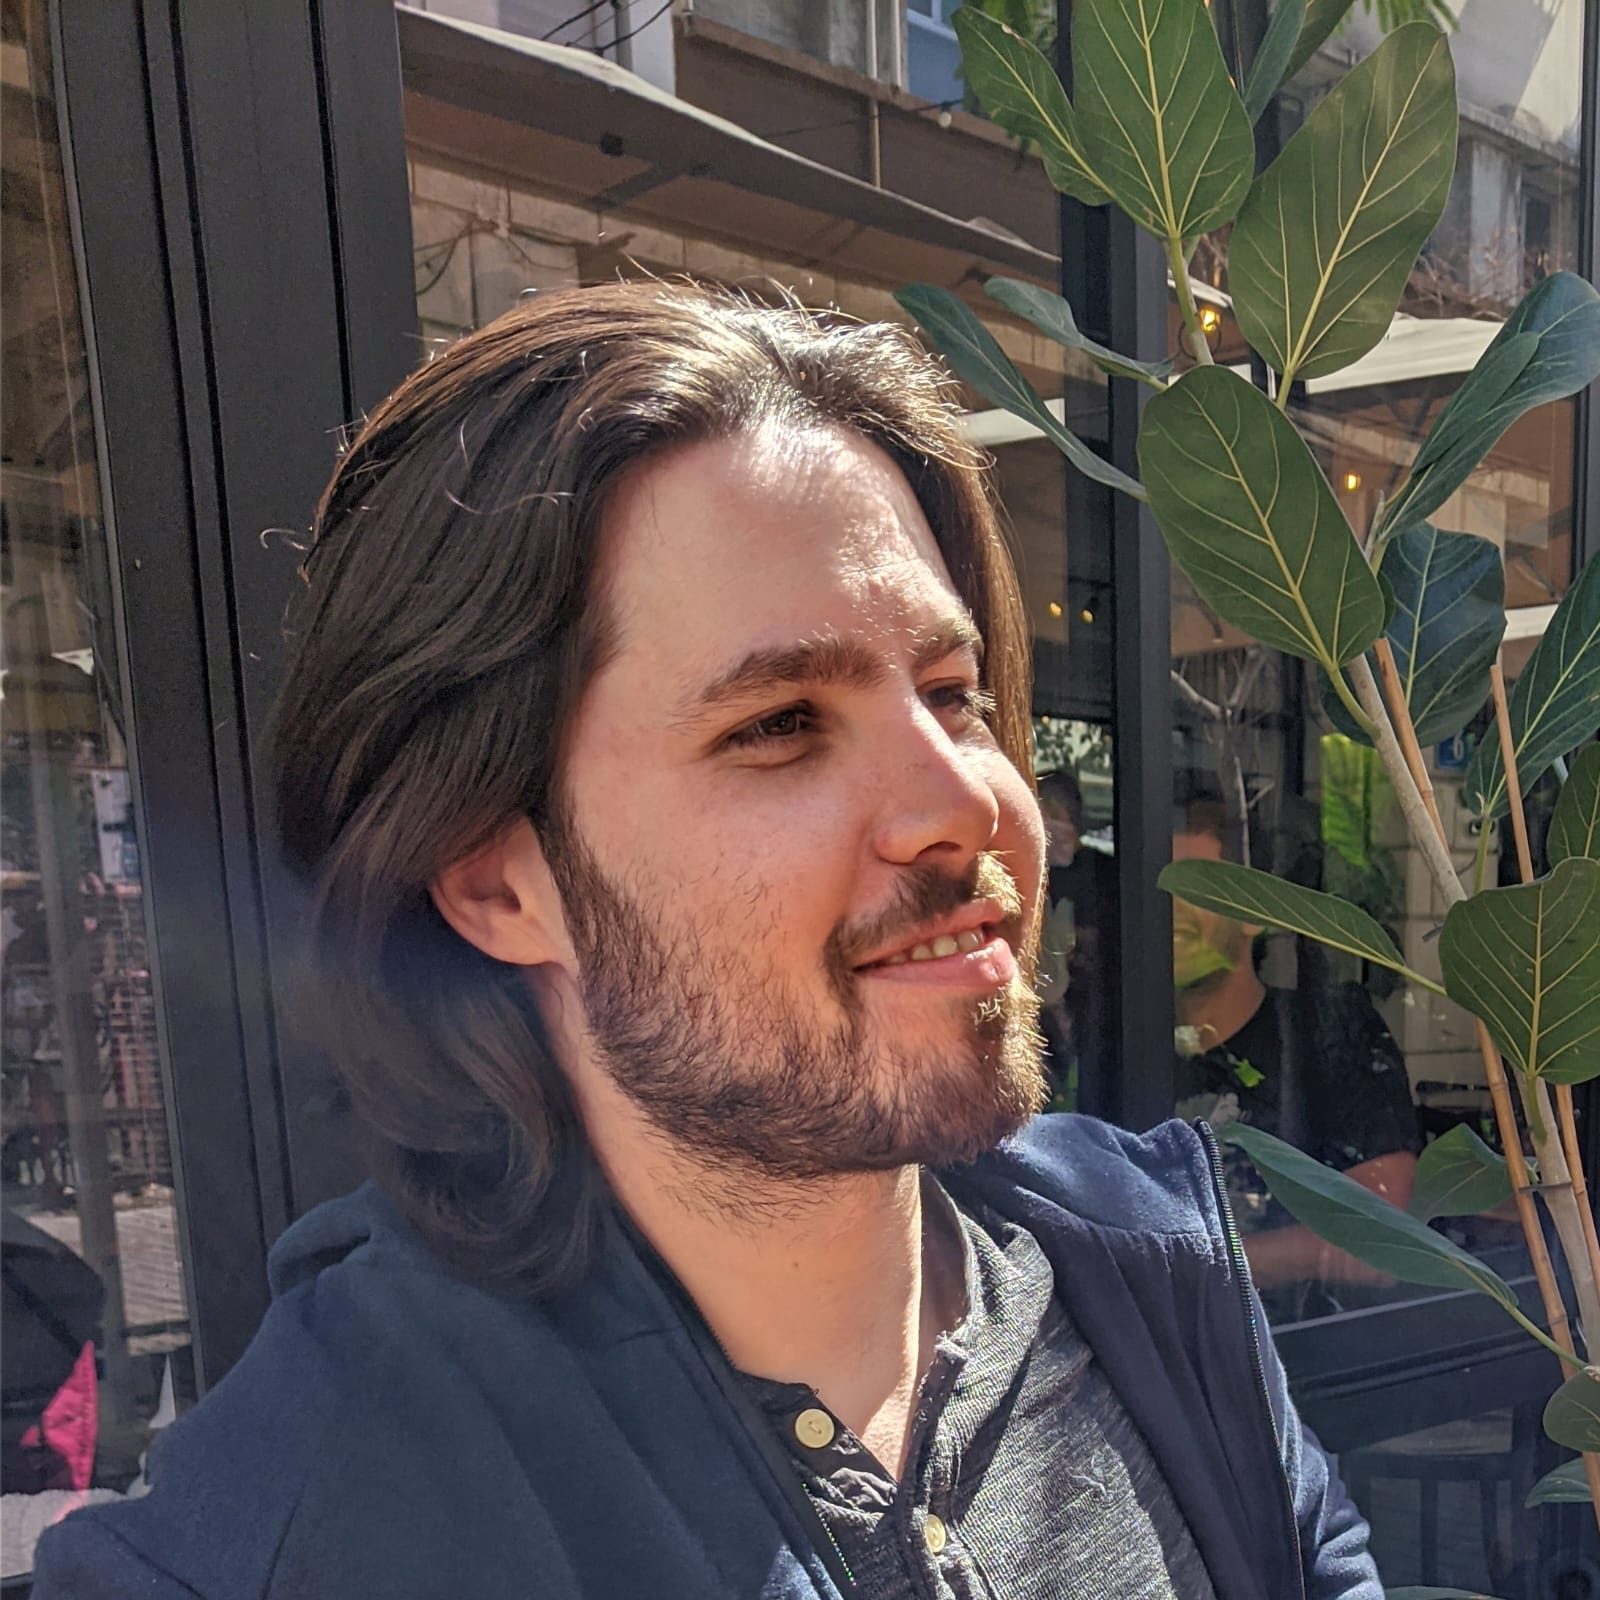
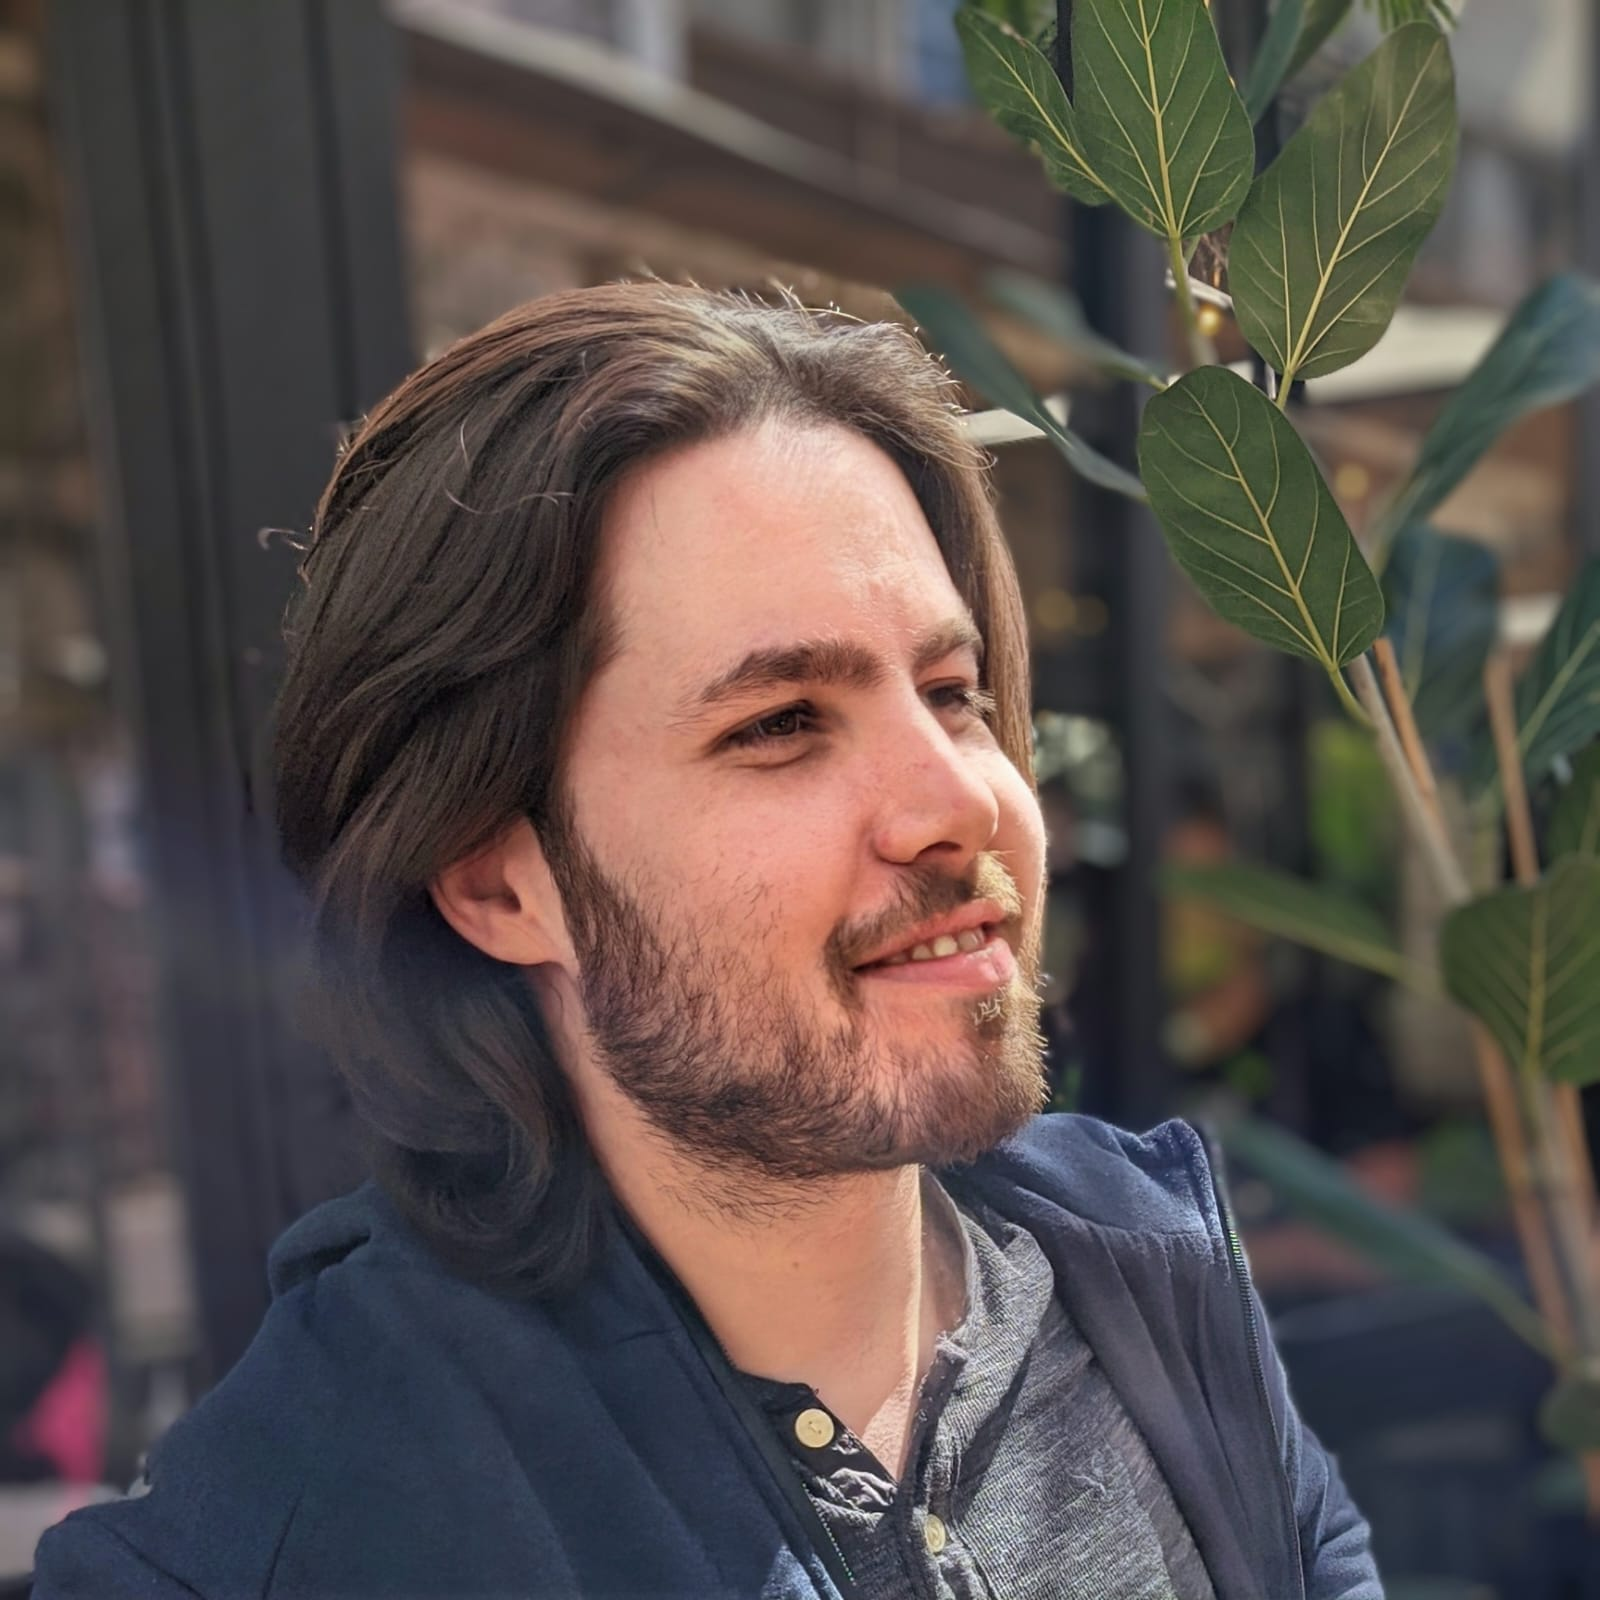
added navBar , reworked bugs in person

diff --git a/src/components/NavBar.tsx b/src/components/NavBar.tsx
@@ -1,4 +1,5 @@
 import { useState } from "react";
+import NAVIGATION_LINKS from "../data/NavLinks";
 
 const NavBar = () => {
   const [isOpen, setIsOpen] = useState(false);
@@ -16,43 +17,52 @@ const NavBar = () => {
   };
 
   return (
-    <nav className="bg-blue-500 p-4">
-      <div className="flex items-center justify-between">
-        <div className="text-2xl font-bold text-white">MyWebsite</div>
-        <button className="text-xl text-white md:hidden" onClick={toggleNavBar}>
-          {isOpen ? "Close" : "Menu"}
-        </button>
+    <nav className="fixed left-0 right-0 m-2 max-w-full rounded-full p-2">
+      {/* Desktop view */}
+      <div className="z-20 mx-auto hidden max-w-4xl items-center rounded-xl border border-stone-700 shadow shadow-stone-800 backdrop-blur-md md:flex md:flex-col">
+        <ul className="flex w-full justify-evenly gap-2 text-white">
+          <h1 className="p-2 text-xl font-bold text-white">Leon Trestman</h1>
+          {NAVIGATION_LINKS.map((link) => (
+            <li
+              key={link.label}
+              className="flex rounded-full p-2 hover:bg-fuchsia-500"
+            >
+              <button
+                onClick={() => handleLinkClick(link.href)}
+                className="text-white"
+              >
+                {link.label}
+              </button>
+            </li>
+          ))}
+        </ul>
       </div>
-      <ul
-        className={`md:flex md:items-center md:space-x-4 ${
-          isOpen ? "block" : "hidden"
-        }`}
-      >
-        <li className="mt-2 md:mt-0">
-          <button
-            onClick={() => handleLinkClick("home")}
-            className="text-white"
-          >
-            Home
+      {/* Mobile view */}
+
+      <div className="z-20 flex flex-col items-center rounded-xl border border-stone-700 p-2 shadow shadow-stone-800 backdrop-blur-md md:hidden">
+        <div className="flex w-full justify-between">
+          <h1 className="text-xl font-bold text-white">Leon Trestman</h1>
+          <button className="text-xl text-white" onClick={toggleNavBar}>
+            {isOpen ? "Close" : "Menu"}
           </button>
-        </li>
-        <li className="mt-2 md:mt-0">
-          <button
-            onClick={() => handleLinkClick("about")}
-            className="text-white"
-          >
-            About
-          </button>
-        </li>
-        <li className="mt-2 md:mt-0">
-          <button
-            onClick={() => handleLinkClick("Person")}
-            className="text-white"
-          >
-            Person
-          </button>
-        </li>
-      </ul>
+        </div>
+        {isOpen &&
+          NAVIGATION_LINKS.map((link) => (
+            <ul>
+              <li
+                key={link.label}
+                className="flex rounded-full p-2 hover:bg-fuchsia-500"
+              >
+                <button
+                  onClick={() => handleLinkClick(link.href)}
+                  className="text-white"
+                >
+                  {link.label}
+                </button>
+              </li>
+            </ul>
+          ))}
+      </div>
     </nav>
   );
 };

diff --git a/src/components/Person.tsx b/src/components/Person.tsx
@@ -3,26 +3,26 @@ import myPic from "../assets/myPic.jpg";
 
 const Person = () => {
   return (
-    <div
+    <section
       id="Person"
-      className="mx-auto flex max-w-3xl flex-col items-center justify-center gap-2 p-4 xl:flex-row-reverse"
+      className="mx-auto flex min-h-dvh max-w-3xl flex-col justify-center gap-8 p-4 md:flex-row-reverse md:items-center md:gap-2"
     >
       <div className="flex w-full justify-center">
         <img
+          height={300}
+          width={300}
           src={myPic}
-          className="lg w-1/2 rounded-full mix-blend-darken shadow-lg shadow-fuchsia-700 sm:w-1/3 md:w-1/4 lg:w-1/4 xl:w-full"
-          alt="myPic"
+          className="rounded-full shadow-lg shadow-fuchsia-700 md:w-full"
+          alt="LeonTrestmanPic"
         />
       </div>
-      <div className="flex h-full w-full flex-col gap-2 text-white">
+      <div className="flex w-full flex-col gap-2 text-white lg:justify-center">
         <h1 className="text-center text-3xl sm:text-4xl md:text-5xl">
           {PersonData.name}
         </h1>
-        <p className="text-sm">{PersonData.discription}</p>
-        <p className="text-sm">{PersonData.discription}</p>
-        <p className="text-sm">{PersonData.discription}</p>
+        <p className="text-center text-sm">{PersonData.discription}</p>
       </div>
-    </div>
+    </section>
   );
 };
 

diff --git a/src/data/NavLinks.ts b/src/data/NavLinks.ts
@@ -1,0 +1,7 @@
+export const NAVIGATION_LINKS = [
+  { label: "Bio", href: "#bio" },
+  { label: "Skills", href: "#skills" },
+  { label: "Projects", href: "#projects" },
+];
+
+export default NAVIGATION_LINKS;
